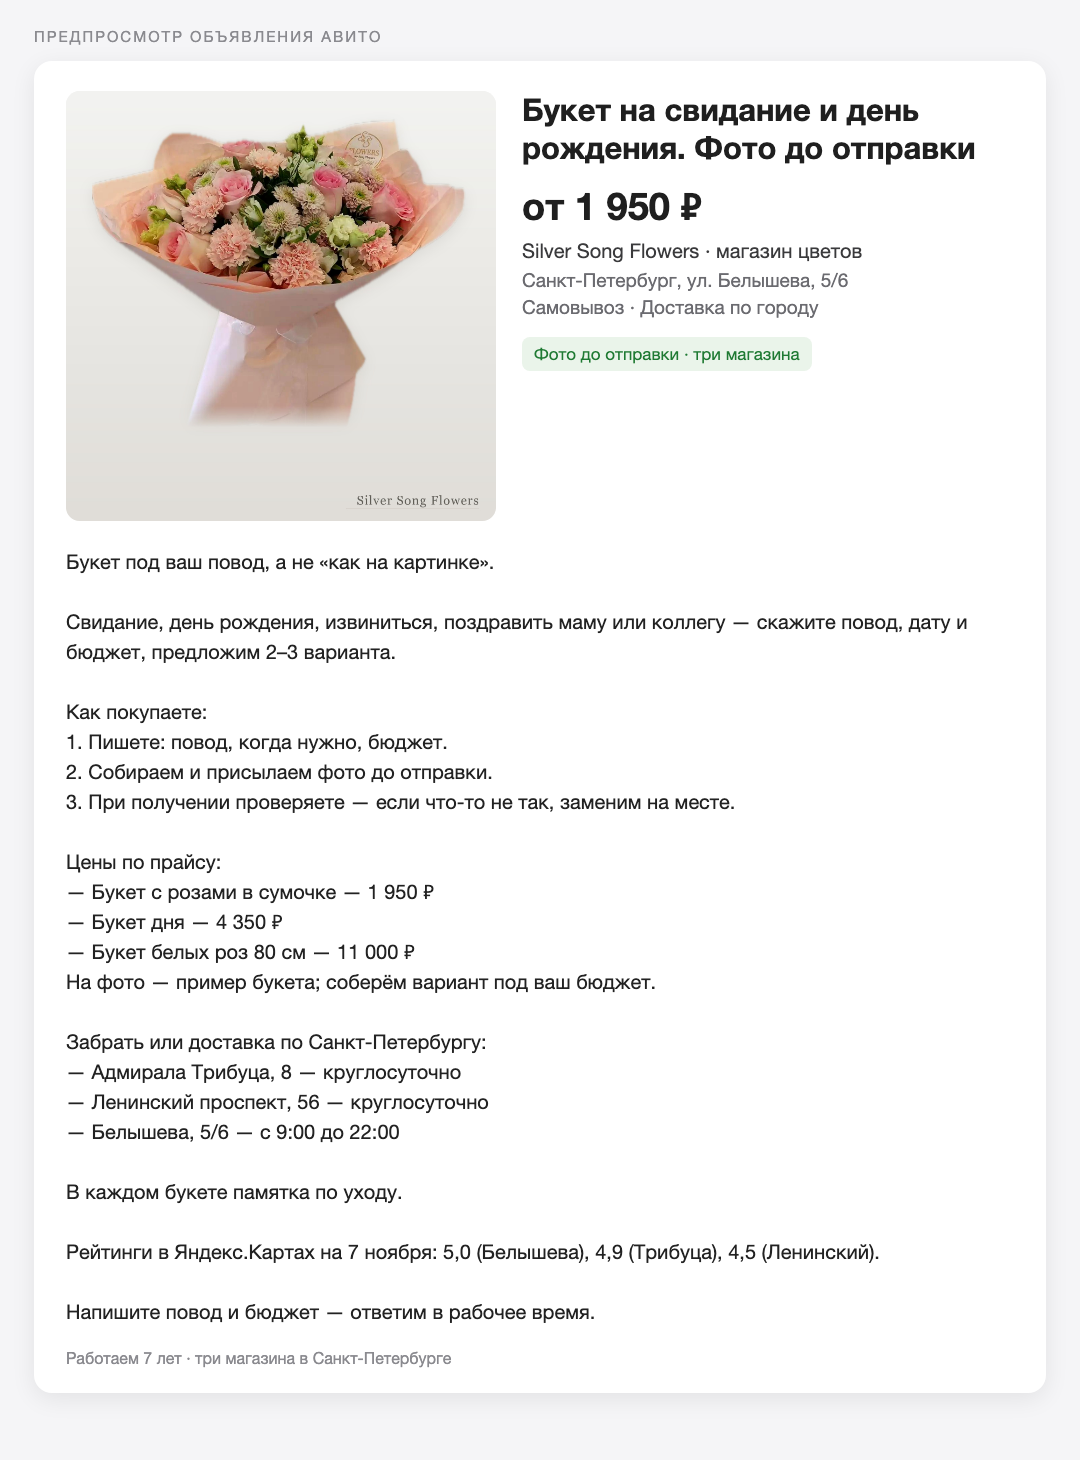
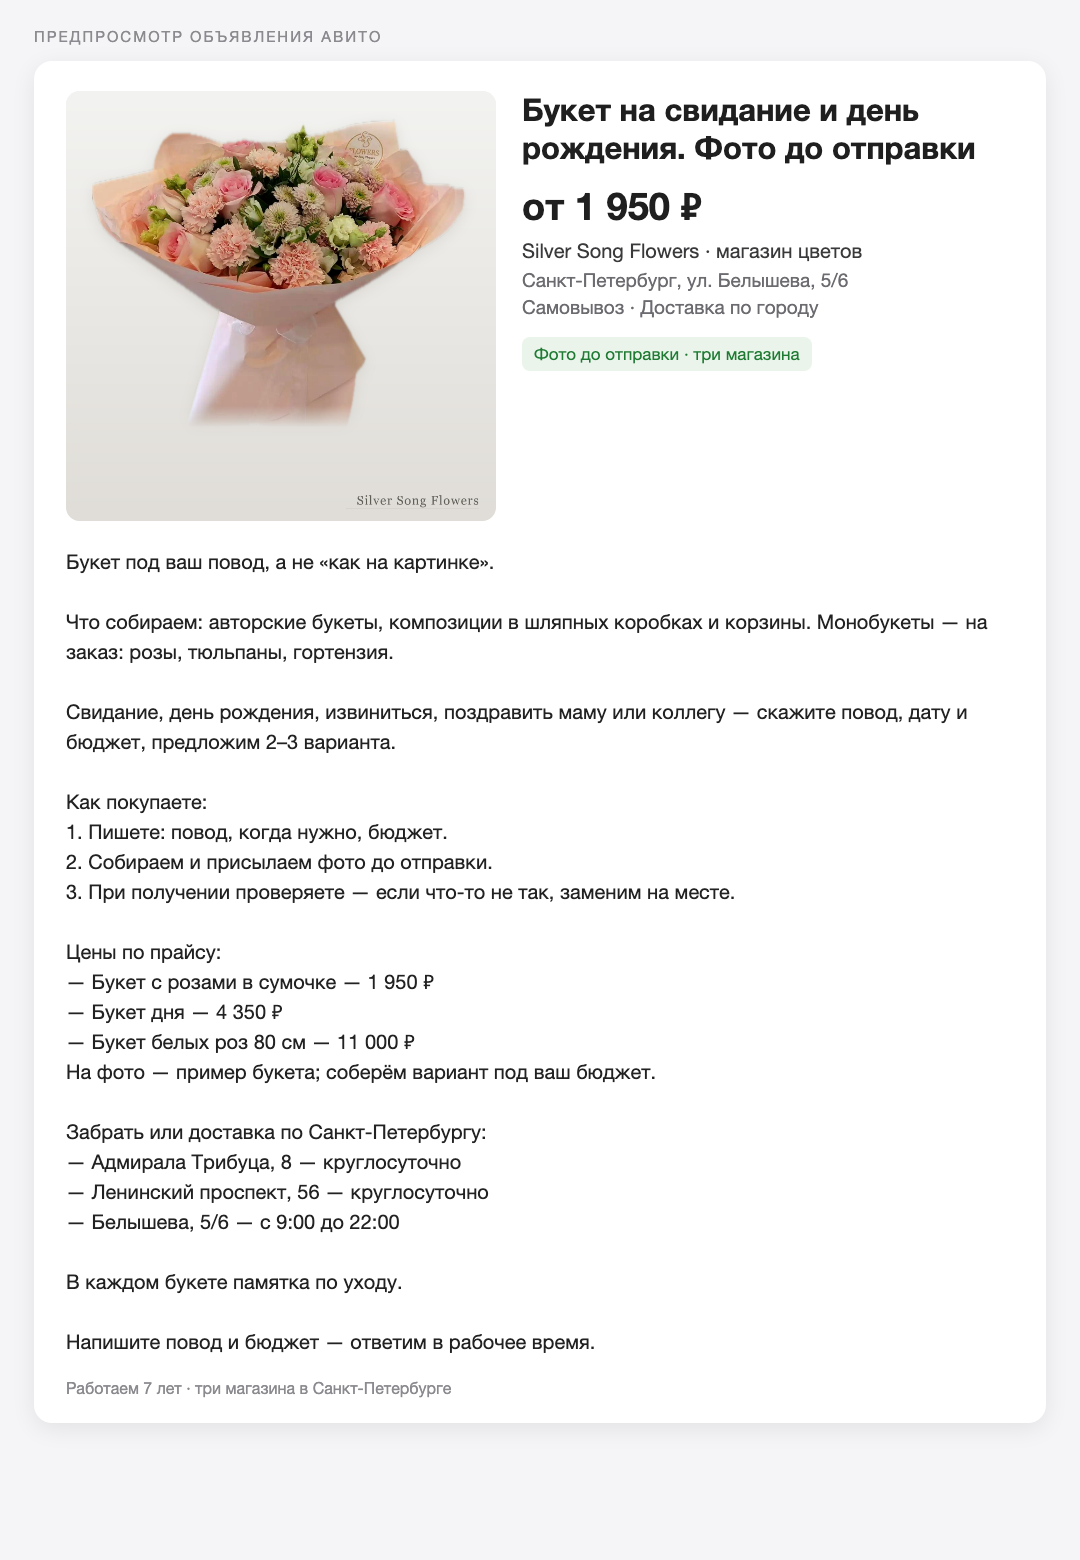
Флористика: разбор фото по типам, правка текста объявления

diff --git a/agent-marketolog/templates/avito-preview.html b/agent-marketolog/templates/avito-preview.html
@@ -33,6 +33,8 @@
     </div>
     <div class="desc">Букет под ваш повод, а не «как на картинке».
 
+Что собираем: авторские букеты, композиции в шляпных коробках и корзины. Монобукеты — на заказ: розы, тюльпаны, гортензия.
+
 Свидание, день рождения, извиниться, поздравить маму или коллегу — скажите повод, дату и бюджет, предложим 2–3 варианта.
 
 Как покупаете:
@@ -52,8 +54,6 @@
 — Белышева, 5/6 — с 9:00 до 22:00
 
 В каждом букете памятка по уходу.
-
-Рейтинги в Яндекс.Картах на 7 ноября: 5,0 (Белышева), 4,9 (Трибуца), 4,5 (Ленинский).
 
 Напишите повод и бюджет — ответим в рабочее время.</div>
     <div class="foot">Работаем 7 лет · три магазина в Санкт-Петербурге</div>

diff --git a/agent-marketolog/results/razbor-foto-po-tipam.md b/agent-marketolog/results/razbor-foto-po-tipam.md
@@ -1,0 +1,17 @@
+# Разбор трёх фото по типам — 2026-11-07
+
+Проверено по `znaniya/floristika.md`. **Ни на одном фото нет монобукета.**
+
+| Фото | Что это на самом деле | Состав (по кадру) | Как писать |
+|---|---|---|---|
+| `avito-foto-v2/01.jpg` | авторский миксбукет в бумаге | розы, гвоздики, хризантемы, зелень | «авторский букет: розы, гвоздики и хризантемы, упаковка — бумага» |
+| `avito-foto-v2/02.jpg` | композиция в шляпной коробке | орхидеи, альстромерии, гортензия, лизиантус, зелень | «композиция в шляпной коробке с орхидеями и гортензией» |
+| `avito-foto-v2/03.jpg` | корзина (композиция на оазисе) | гортензия, альстромерии, гвоздики, маргаритки, эвкалипт | «корзина с гортензией и альстромериями» |
+
+**Монобукет** — только один вид цветка. Чтобы показать монобукет, нужен кадр, где все цветы одного вида (например, 15 роз). В архиве такие есть: `buket-31` — почти монобукет по лизиантусу и орхидее, но с добавками, значит тоже микс.
+
+## Что меняется в объявлении
+
+1. В характеристиках: «Монобукет — Нет».
+2. В тексте: слова «авторский букет», «композиция в коробке», «корзина» вместо общего «букет».
+3. Добавить строку: «Монобукеты собираем на заказ — из роз, тюльпанов или гортензии».

diff --git a/agent-marketolog/AGENTS.md b/agent-marketolog/AGENTS.md
@@ -137,7 +137,7 @@ open -a Safari "https://yandex.ru/maps/org/silver_song_flowers/138890152139/"
 **Проверка типа товара — обязательна:**
 - монобукет — только один вид цветка;
 - миксбукет (авторский) — два и больше видов;
-- композиция — цветы в сосуде на оазесе или в капшо;
+- композиция — цветы в сосуде на оазисе или в кашпо;
 - корзина — композиция в корзине.
 
 Если в букете больше одного вида цветов, ставить «Монобукет: Да» нельзя. Перед публикацией объявления открыть характеристики и сверить: тип, состав по фото, размер.
